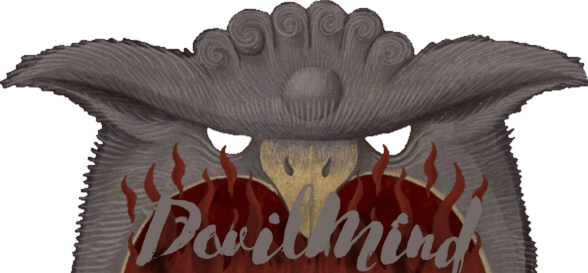
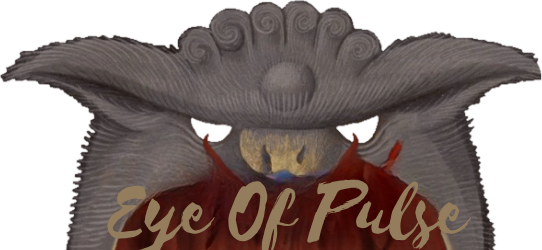
df

diff --git a/index.html b/index.html
@@ -5,7 +5,7 @@
 <head>
     <meta charset="UTF-8" />
     <meta name="viewport" content="width=device-width, initial-scale=1.0" />
-    <title>Home | Hellmouth</title>
+    <title>Eye Of pulse</title>
     <link rel="apple-touch-icon" sizes="180x180" href="apple-touch-icon.png" />
     <link rel="icon" type="image/png" sizes="32x32" href="favicon-32x32.png" />
     <link rel="icon" type="image/png" sizes="16x16" href="favicon-16x16.png" />
@@ -32,7 +32,7 @@
         </div>
         <div class="lilheader">
           <h1>
-            <img src="images/layout/liltorch.gif" alt="" />Hellmouth<img
+            <img src="images/layout/liltorch.gif" alt="" />Eye Of Pulse<img
               src="images/layout/liltorch.gif"
               alt=""
             />
@@ -43,7 +43,7 @@
       <div class="leftnav scrollnav">
         <nav>
           <div>
-            <h3>Art Stuff</h3>
+            <h3>Pulse Stuff</h3>
             <ul>
               <li>
                 <a href="marginalia.html">Marginalia</a>
@@ -81,9 +81,8 @@
             <h3>Me</h3>
 
             <ul>
-              <li><a href="https://pump.fun/profile/4b2ALG269vWWoaJMKs745TJ3JJmBHGCEe959vzYiG78M">Buy $DevilMind</a></li>
-              <li><a href="https://x.com/devilmindcoin">Twitter @</a></li>
-              <li><a href="https://t.me/devilmindcoin">Telegram Ch</a></li>
+              <li><a href="EyeOfPulse">Buy $EYE</a></li>
+              <li><a href="https://x.com/EyeOfPulse">Twitter @</a></li>
 
             </ul>
 
@@ -102,11 +101,11 @@
           <h2>Welcome Pumpfun's Stupid Traders</h2>
                     <p>
            I was thinking what if the devil steps in Shitcoin, i mean im bored; nothing to do, so I made this.
-           The devil mind.
+           I'm The Eye Of the Pulse.
           </p>
           <p>
             Please step into my
-            <a href="hellmouths.html">hellmouth</a> and have a look around.
+            <a href="hellmouths.html">Pulse</a> and have a look around.
           </p>
 
 
@@ -141,7 +140,7 @@
     
     <h3>12/29/2023:</h3>
     <ul>
-      <li>Whispered <strong>"DEVILMIND"</strong> into a crypto VC’s ear.</li>
+      <li>Whispered <strong>"Eye Of Pulse"</strong> into a crypto VC’s ear.</li>
       <li>Witnessed <strong>first FOMO ape</strong> (RIP).</li>
     </ul>
   </div>
@@ -182,13 +181,13 @@ Fuck pumpfun
               ><img src="images/layout/rf150x50.png" alt="Neopets fanlisting"
             /></a>
 
-            <div><a href="https://x.com/devilmindcoin">Aromatic</a> :: Smoke</div>
+            <div><a href="https://x.com/EyeOfPulse">Aromatic</a> :: Smoke</div>
             <div>
-              <a href="https://x.com/devilmindcoin" target="_new">Patron</a> ::
+              <a href="https://x.com/EyeOfPulse" target="_new">Patron</a> ::
               Asmodeus
             </div>
             <div>
-              <a href="https://x.com/devilmindcoin">Nobility</a> ::
+              <a href="https://x.com/EyeOfPulse">Nobility</a> ::
               Duchess of demons and devils
             </div>
             <div class="cliques" id="selfinsertwebring">
